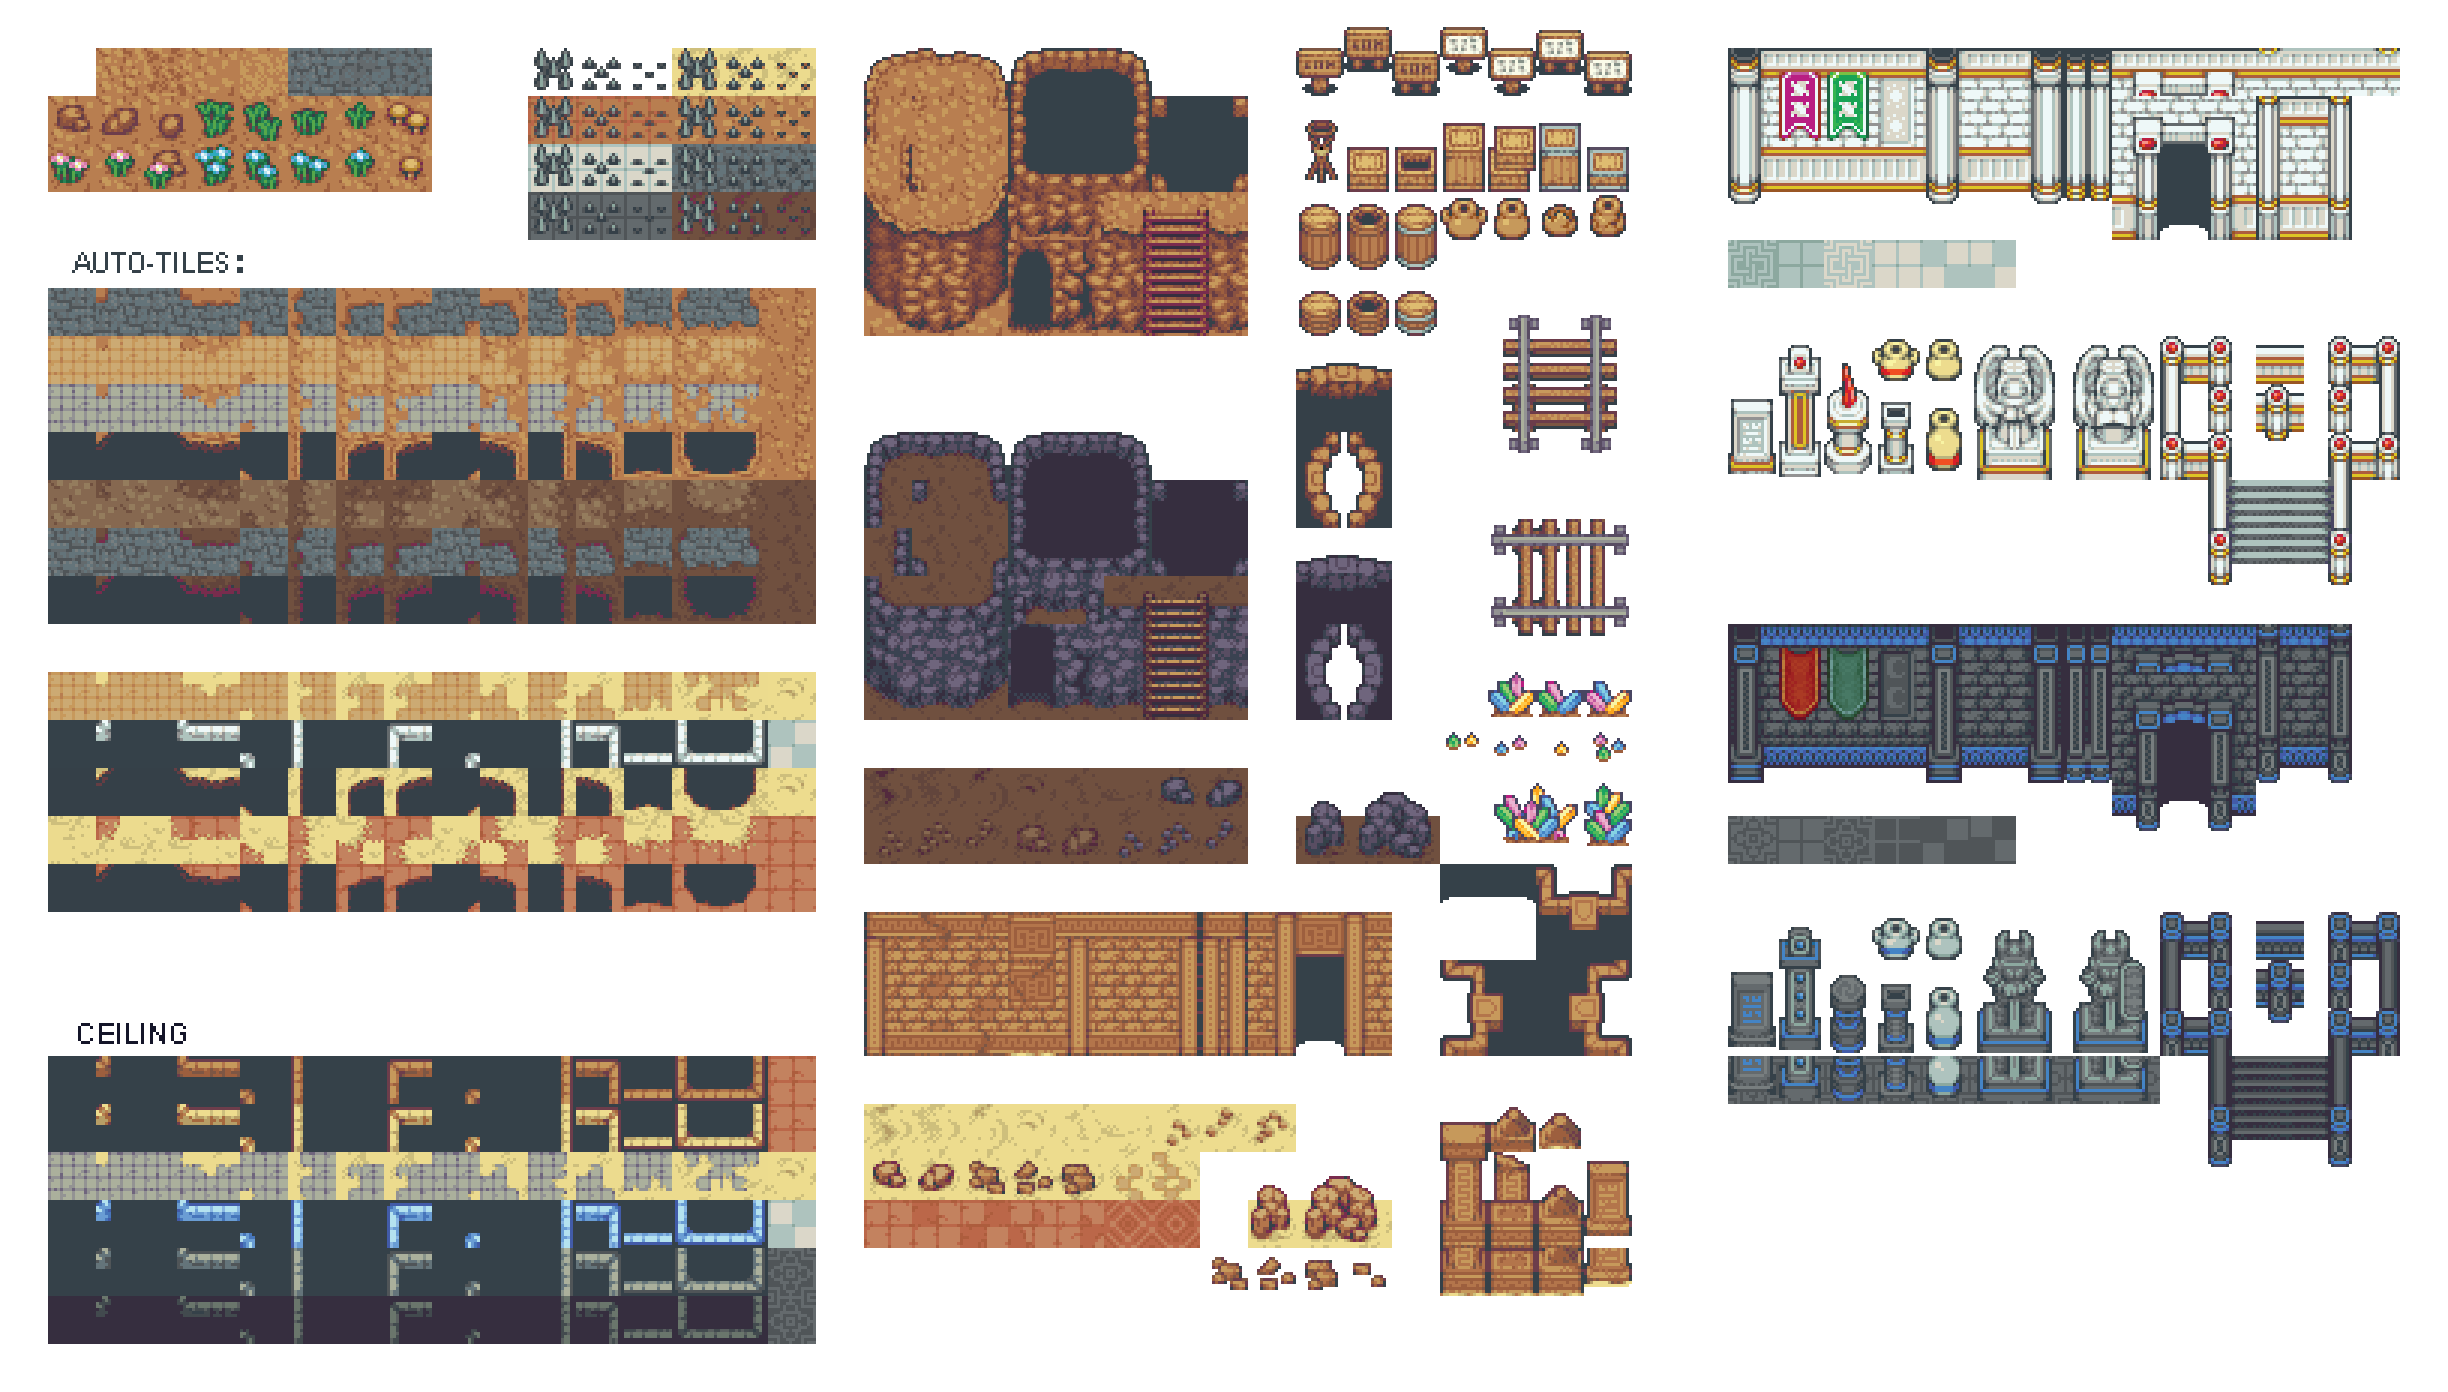
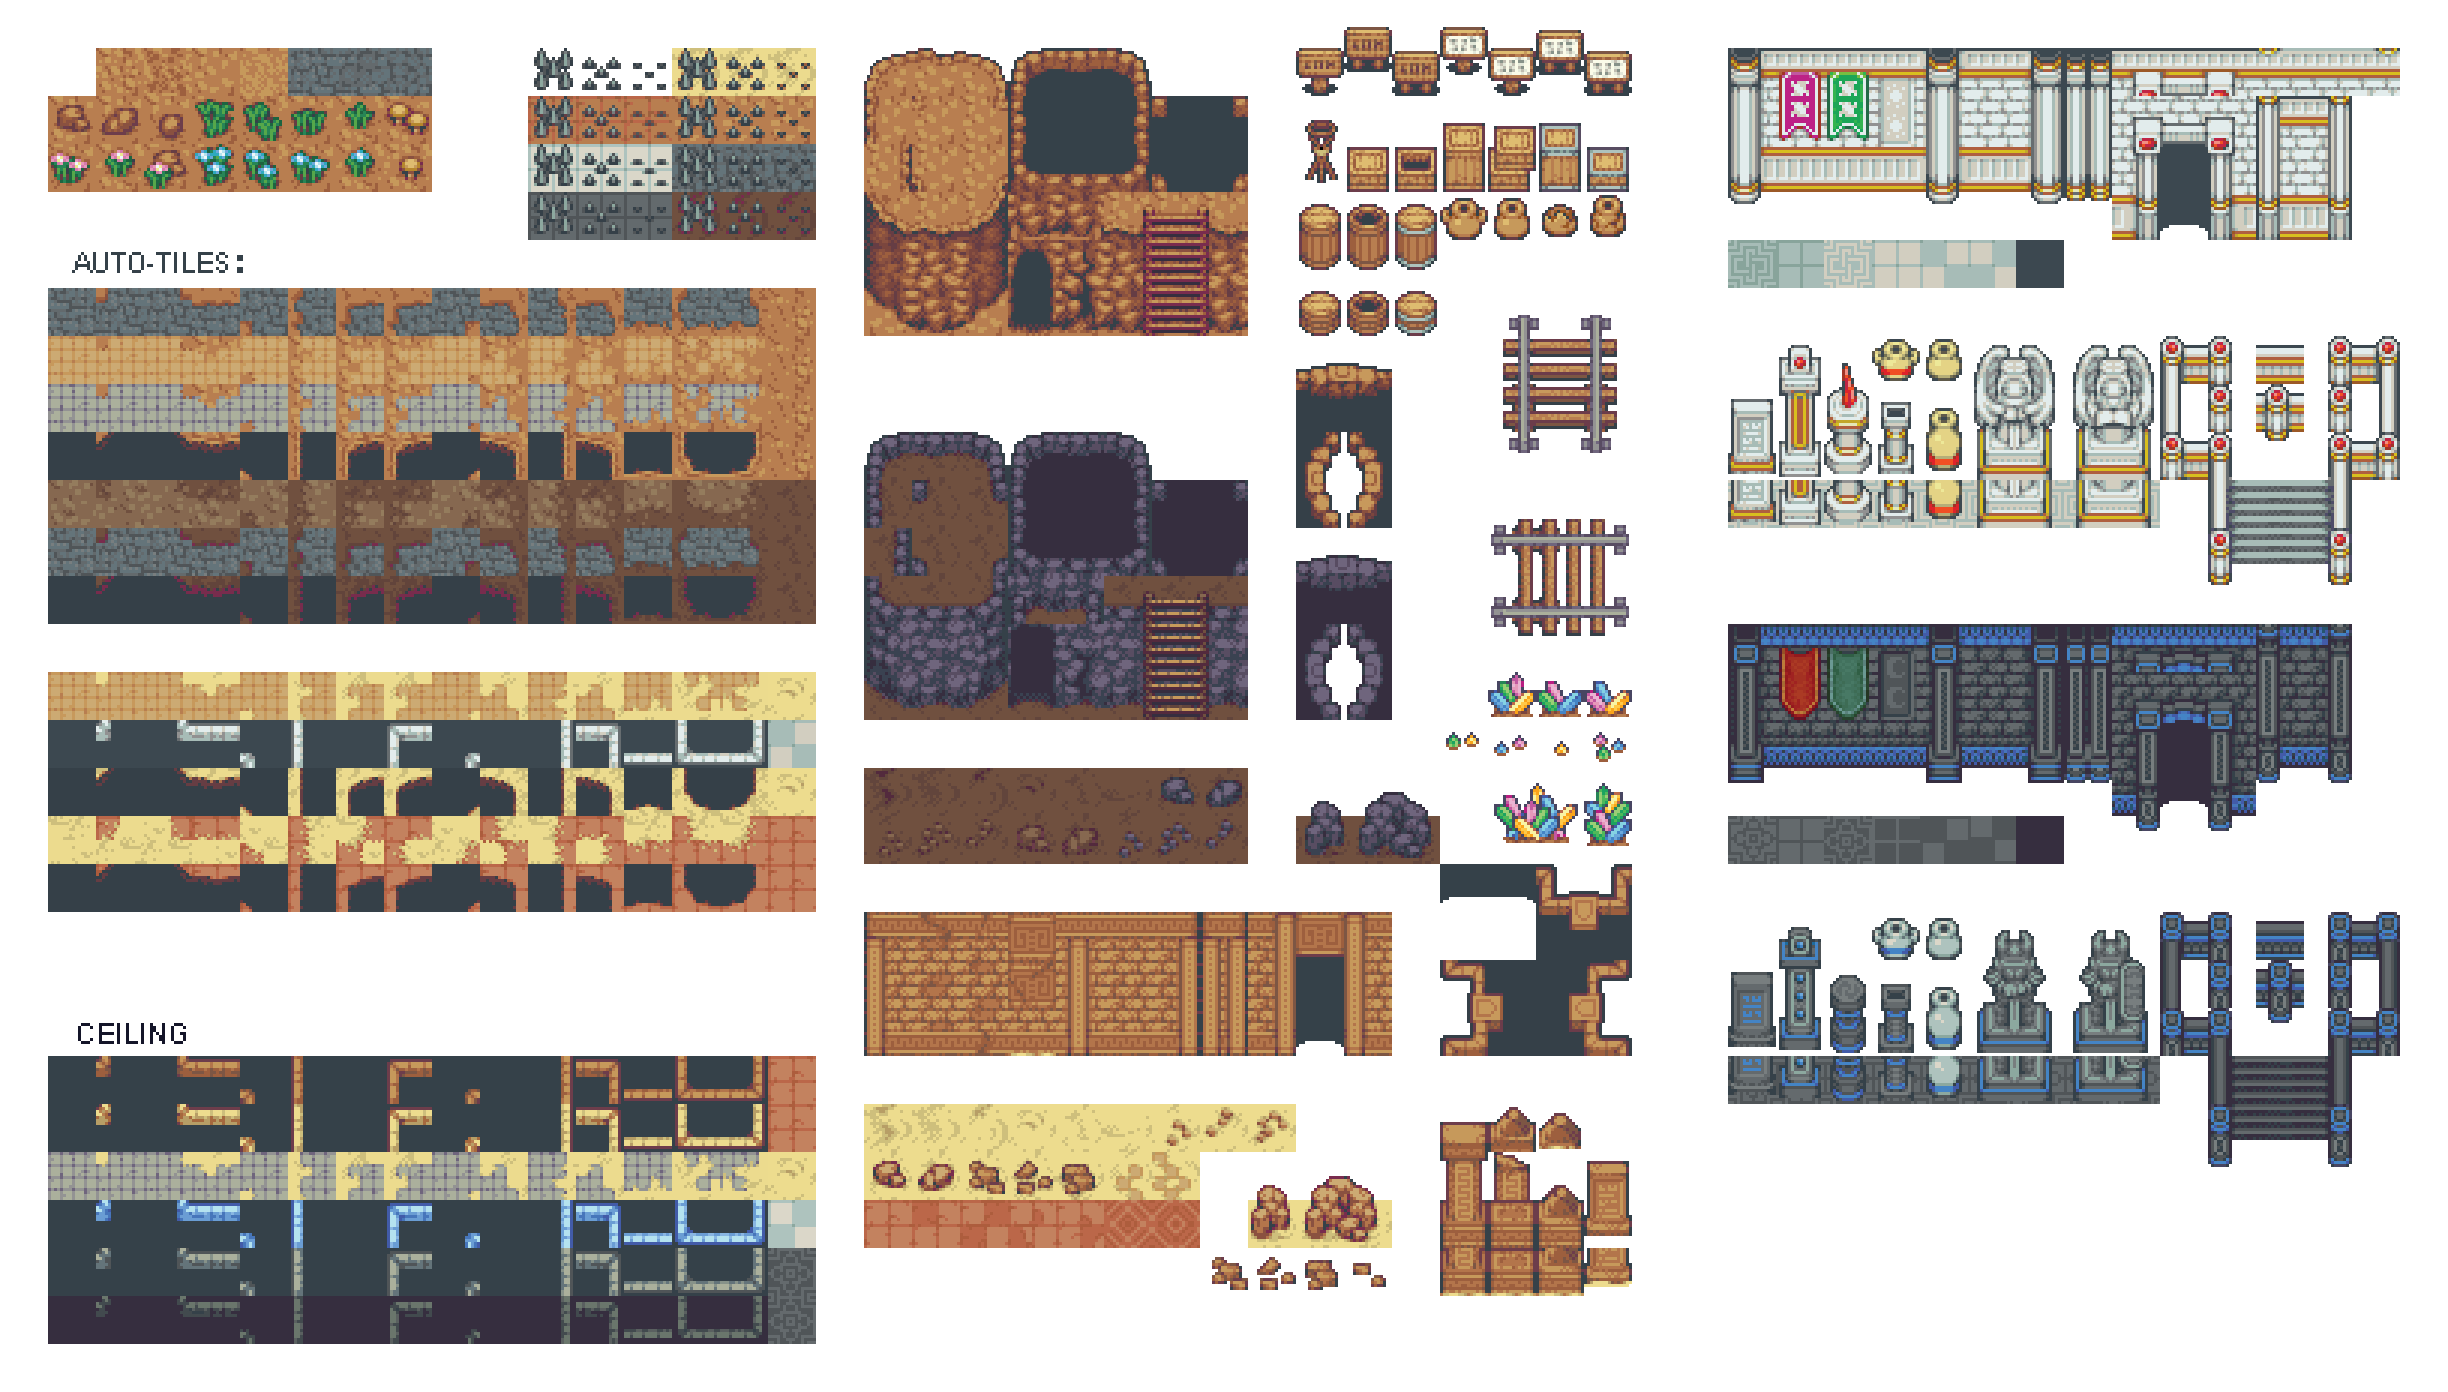
Fixed non-offsetting tile.
Former-commit-id: c8a1983caa0f5d6cddbc608077ed4fb4f1be15c9

Changed region(s): [[0.683, 0.3398, 0.9003, 0.4016], [0.8072, 0.1545, 0.8693, 0.2162], [0.8072, 0.5869, 0.8693, 0.6178]]

diff --git a/Projects/OmniBlade/Assets/Castle/Castle.tsx b/Projects/OmniBlade/Assets/Castle/Castle.tsx
@@ -219,6 +219,11 @@
    <property name="C" value=""/>
   </properties>
  </tile>
+ <tile id="909">
+  <properties>
+   <property name="C" value=""/>
+  </properties>
+ </tile>
  <tile id="1008">
   <properties>
    <property name="C" value=""/>
